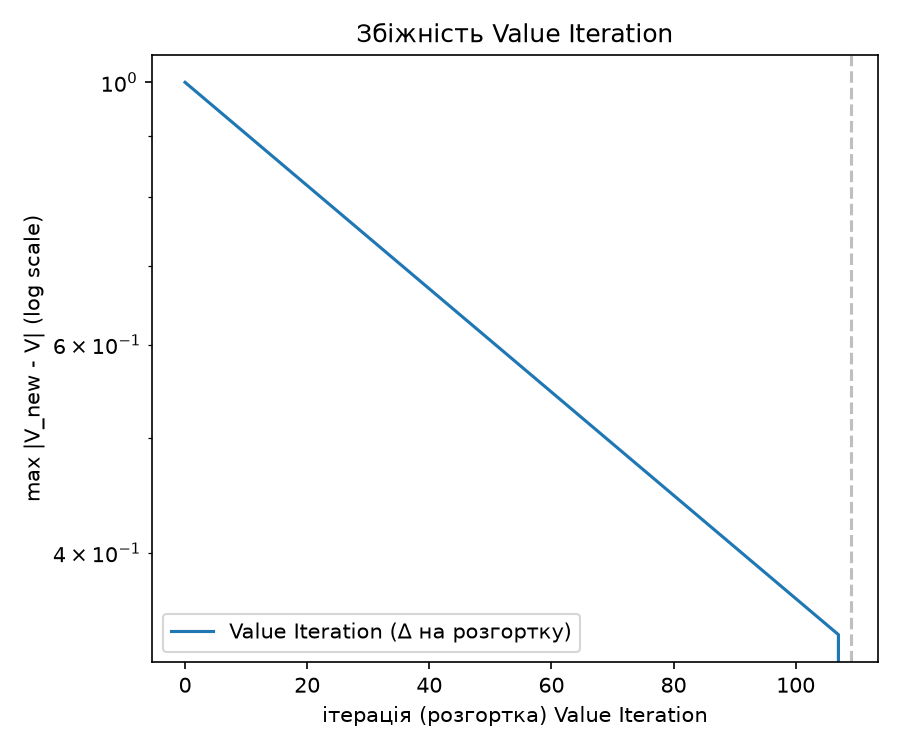
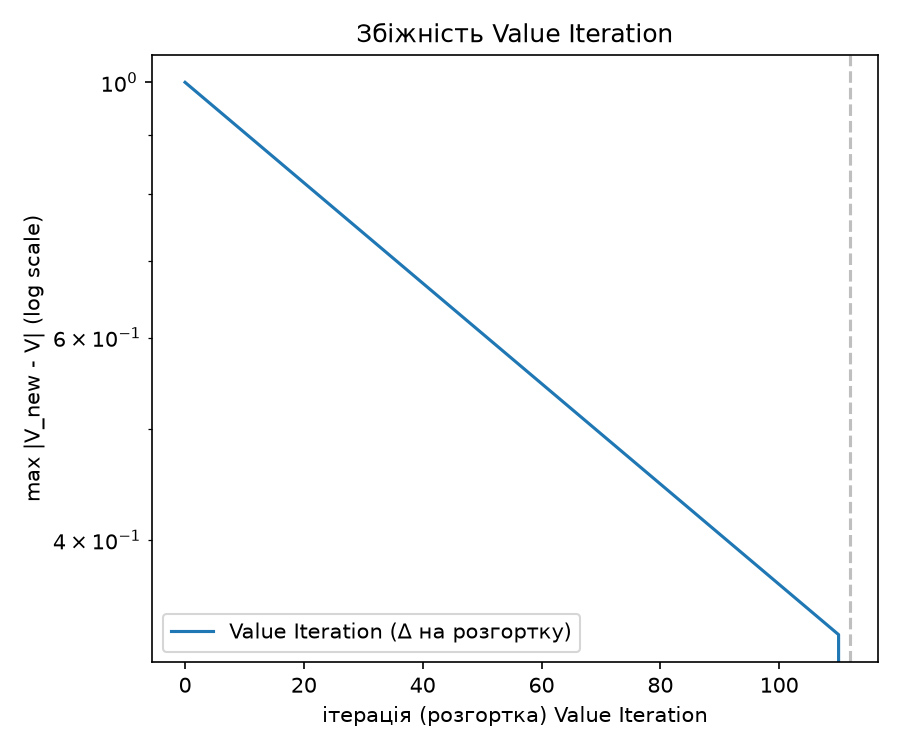
update content

diff --git a/run_experiment.py b/run_experiment.py
@@ -20,18 +20,22 @@ import matplotlib.pyplot as plt
 from mountain_car_dp import DiscretizedMountainCar
 from dp_algorithms import policy_iteration, value_iteration
 
-N_POS, N_VEL = 200, 200
+N_POS, N_VEL = 300, 300
 # Примітка: крок сили в MountainCar дуже малий (force=0.001) відносно
 # діапазону швидкості (0.14), тому груба сітка (наприклад 60x60, ширина
 # комірки швидкості ~0.0024) призводить до аліасингу при округленні до
 # найближчої комірки — похибка дискретизації маскує реальний вплив дії,
 # і отримана політика виявляється майже випадковою в неперервному
-# середовищі. Сітка 200x200 (ширина комірки швидкості ~0.0007 < force)
-# усуває цей ефект і дає стабільну, майже 100% успішну політику.
+# середовищі. При 200x200 (ширина комірки швидкості ~0.0007 < force)
+# аліасинг зникає, але під ЧЕСНИМ стандартним лімітом Gym (200 кроків
+# на епізод, без розширення) середня винагорода ще трохи гірша за
+# класичний поріг "розв'язано" (-110): ~-114..-118. Сітка 300x300 дає
+# 100% успіху та середню винагороду ~-109 (обчислення все ще <0.3с
+# для VI і ~1.2с для PI — тож дешевше просто взяти сітку дрібнішою).
 GAMMA = 0.99
 THETA = 1e-6
 EVAL_EPISODES = 100
-MAX_STEPS = 1000  # більше за стандартний ліміт (200), щоб не занижувати політику під час оцінки
+MAX_STEPS = 200  # стандартний ліміт епізоду в MountainCar-v0 (чесна, а не завищена оцінка)
 
 ACTION_NAMES = {0: "← push left", 1: "no push", 2: "push right →"}
 
@@ -59,9 +63,11 @@ def evaluate_policy(model: DiscretizedMountainCar, policy: np.ndarray,
     env.close()
     success_rate = successes / n_episodes
     avg_len = float(np.mean(lengths))
+    mean_reward = -avg_len  # reward = -1 за кожен крок (в т.ч. невдалі, обмежені max_steps)
     return {
         "success_rate": success_rate,
         "avg_episode_len": avg_len,
+        "mean_reward": mean_reward,
         "successes": successes,
         "n_episodes": n_episodes,
     }
@@ -157,14 +163,15 @@ def main():
     print(f"Максимальна різниця V*(s) між VI та PI: {max_v_diff:.6f}")
 
     print("\nОцінювання політик у справжньому (неперервному) середовищі Gymnasium "
-          f"({EVAL_EPISODES} епізодів кожна)...")
+          f"(стандартний ліміт {MAX_STEPS} кроків/епізод, {EVAL_EPISODES} епізодів кожна)...")
     vi_eval = evaluate_policy(model, policy_vi)
     pi_eval = evaluate_policy(model, policy_pi)
 
     print(f"  Value Iteration : success_rate={vi_eval['success_rate']*100:.1f}%  "
-          f"avg_episode_len={vi_eval['avg_episode_len']:.1f}")
+          f"avg_episode_len={vi_eval['avg_episode_len']:.1f}  mean_reward={vi_eval['mean_reward']:.2f}")
     print(f"  Policy Iteration: success_rate={pi_eval['success_rate']*100:.1f}%  "
-          f"avg_episode_len={pi_eval['avg_episode_len']:.1f}")
+          f"avg_episode_len={pi_eval['avg_episode_len']:.1f}  mean_reward={pi_eval['mean_reward']:.2f}")
+    print("  (класичний поріг Gym \"розв'язано\": середня винагорода за 100 епізодів >= -110)")
 
     print("\nПобудова графіків у results/ ...")
     plot_policy_heatmap(model, policy_vi, "Політика: Value Iteration", "results/policy_heatmap_vi.png")
@@ -184,6 +191,7 @@ def main():
         ("Сумарних розгорток оцінки", f"{vi_stats['sweeps']}", f"{pi_stats['total_eval_sweeps']}"),
         ("Success rate, %", f"{vi_eval['success_rate']*100:.1f}", f"{pi_eval['success_rate']*100:.1f}"),
         ("Середня довжина епізоду", f"{vi_eval['avg_episode_len']:.1f}", f"{pi_eval['avg_episode_len']:.1f}"),
+        ("Середня винагорода (>= -110 = solved)", f"{vi_eval['mean_reward']:.2f}", f"{pi_eval['mean_reward']:.2f}"),
         ("Політики ідентичні", str(same_policy), str(same_policy)),
     ]
     for name, v1, v2 in rows:
